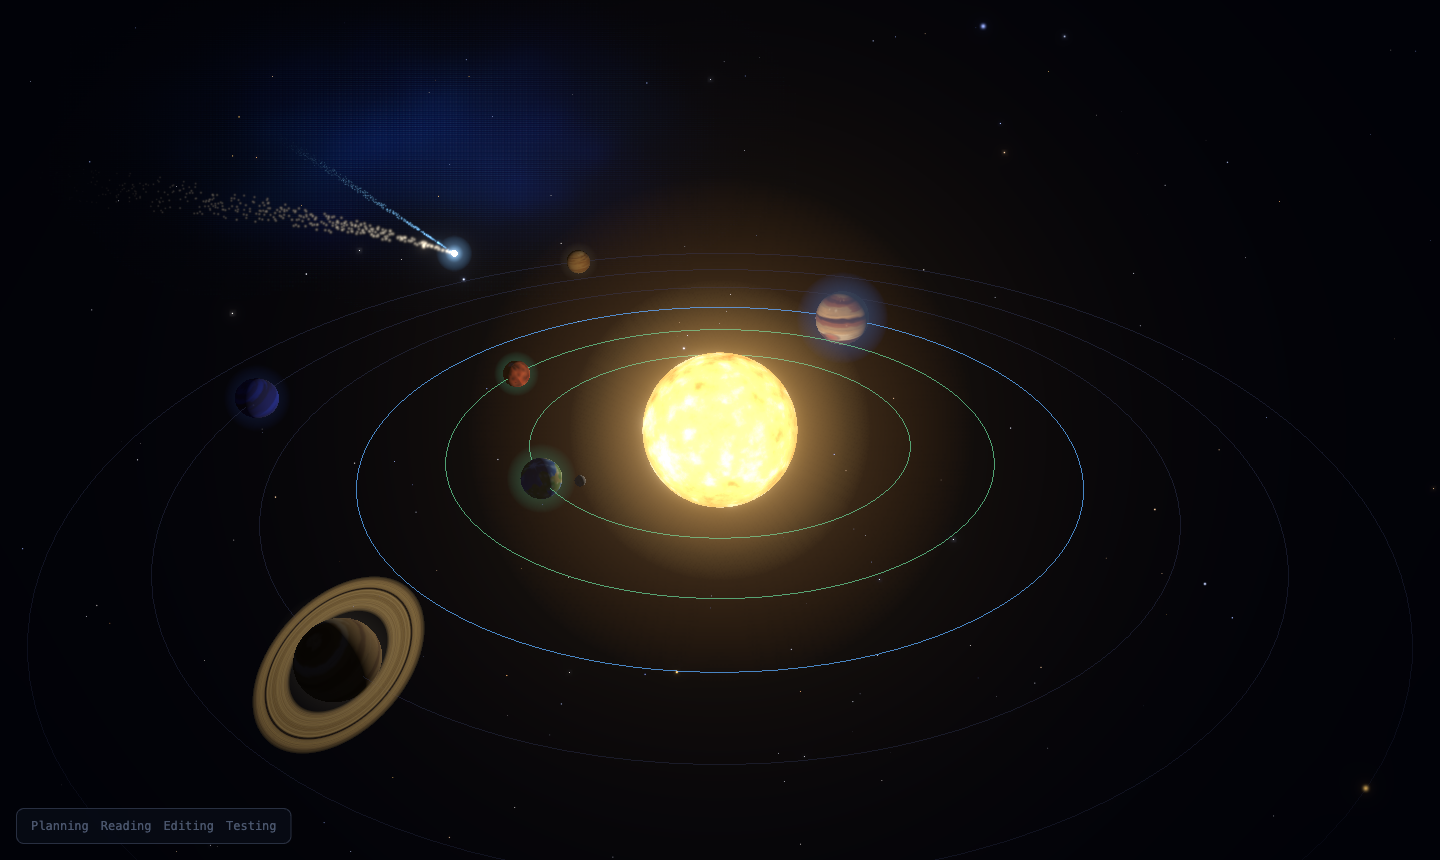
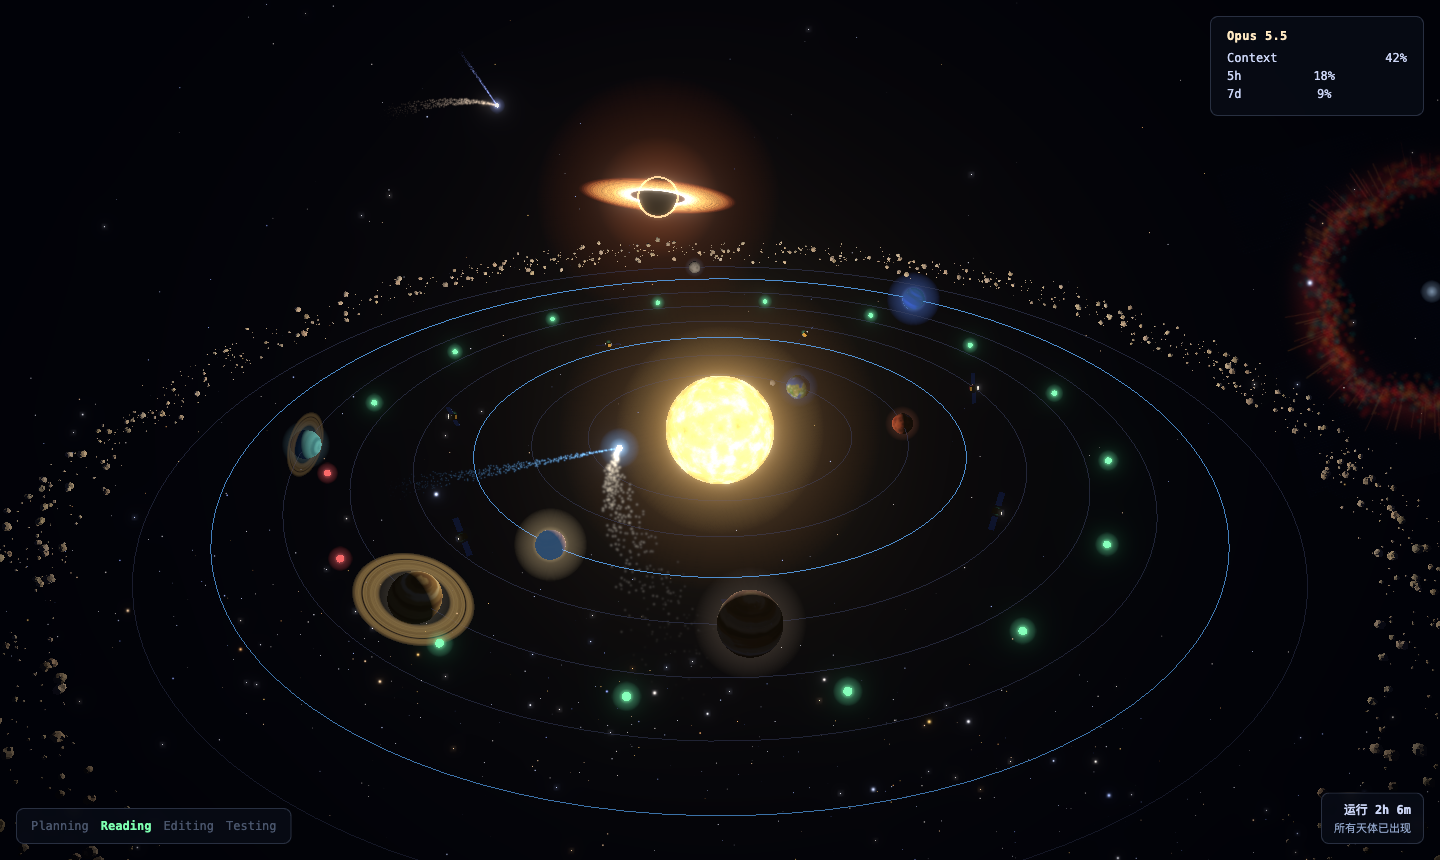
feat: swap the meteor shower for a calm open star cluster, refresh screenshots
The 5-minute meteor shower streaked bright trails across the screen,
which was hard on the eyes. It's replaced by a Pleiades-like open
cluster in a faint reflection nebula that only breathes slowly, placed
between the pulsar and the black hole.

The README screenshots now show a two-hour session with every planet
and wonder unlocked, and the wonders section gets its own image.

diff --git a/web/src/scene/wonders/StarCluster.jsx b/web/src/scene/wonders/StarCluster.jsx
@@ -1,0 +1,97 @@
+import { useMemo, useRef } from 'react';
+import { useFrame } from '@react-three/fiber';
+import * as THREE from 'three';
+import { createGlowPointsMaterial } from '../glowPoints.js';
+import { glowTexture, nebulaTexture } from '../textures.js';
+
+const FAINT_STARS = 140;
+const RADIUS = 5;
+
+// The handful of bright members that give the cluster its shape, like the
+// Pleiades' Seven Sisters: [x, y, z, size].
+const BRIGHT = [
+  [0, 0.4, 0, 2.4],
+  [-1.8, 1.1, 0.6, 1.9],
+  [1.5, 1.6, -0.4, 2.0],
+  [2.6, -0.3, 0.8, 1.7],
+  [-0.9, -1.4, -0.7, 1.8],
+  [0.8, -0.9, 1.4, 1.5],
+  [-2.9, -0.2, -1.1, 1.6],
+];
+
+// Roughly Gaussian scatter so members crowd toward the middle.
+function gaussian() {
+  return (Math.random() + Math.random() + Math.random() - 1.5) / 1.5;
+}
+
+// A young open cluster of hot blue-white stars in a faint blue reflection
+// nebula. Deliberately calm: no flicker, only a slow breathing glow.
+export default function StarCluster() {
+  const ref = useRef(null);
+  const glowRefs = useRef([]);
+  const hazeRef = useRef(null);
+  const material = useMemo(() => createGlowPointsMaterial({ twinkle: 0.05 }), []);
+  const glow = useMemo(() => glowTexture(), []);
+  const haze = useMemo(() => nebulaTexture(307, ['#35508f', '#5673b0', '#2a3f73']), []);
+
+  const geometry = useMemo(() => {
+    const count = FAINT_STARS + BRIGHT.length;
+    const positions = new Float32Array(count * 3);
+    const colors = new Float32Array(count * 3);
+    const sizes = new Float32Array(count);
+    const alphas = new Float32Array(count);
+    const phases = new Float32Array(count);
+    const hot = new THREE.Color('#bcd2ff');
+    const white = new THREE.Color('#f4f6ff');
+    const c = new THREE.Color();
+    for (let i = 0; i < FAINT_STARS; i += 1) {
+      positions.set([gaussian() * RADIUS, gaussian() * RADIUS * 0.7, gaussian() * RADIUS], i * 3);
+      c.copy(hot).lerp(white, Math.random());
+      colors.set([c.r, c.g, c.b], i * 3);
+      sizes[i] = 0.3 + Math.random() * 0.45;
+      alphas[i] = 0.35 + Math.random() * 0.4;
+      phases[i] = Math.random();
+    }
+    BRIGHT.forEach(([x, y, z, size], j) => {
+      const i = FAINT_STARS + j;
+      positions.set([x, y, z], i * 3);
+      colors.set([white.r, white.g, white.b], i * 3);
+      sizes[i] = size * 1.3;
+      alphas[i] = 1;
+      phases[i] = Math.random();
+    });
+    const g = new THREE.BufferGeometry();
+    g.setAttribute('position', new THREE.BufferAttribute(positions, 3));
+    g.setAttribute('color', new THREE.BufferAttribute(colors, 3));
+    g.setAttribute('size', new THREE.BufferAttribute(sizes, 1));
+    g.setAttribute('alpha', new THREE.BufferAttribute(alphas, 1));
+    g.setAttribute('phase', new THREE.BufferAttribute(phases, 1));
+    return g;
+  }, []);
+
+  useFrame((state) => {
+    const t = state.clock.elapsedTime;
+    material.uniforms.uTime.value = t;
+    if (ref.current) ref.current.rotation.y = t * 0.01;
+    glowRefs.current.forEach((sprite, i) => {
+      if (sprite) sprite.material.opacity = 0.35 + Math.sin(t * 0.4 + i * 0.9) * 0.06;
+    });
+    if (hazeRef.current) hazeRef.current.material.opacity = 0.3 + Math.sin(t * 0.25) * 0.05;
+  });
+
+  return (
+    <group>
+      <sprite ref={hazeRef} scale={[22, 17, 1]}>
+        <spriteMaterial map={haze} transparent opacity={0.3} depthWrite={false} blending={THREE.AdditiveBlending} />
+      </sprite>
+      <group ref={ref}>
+        <points geometry={geometry} material={material} />
+        {BRIGHT.map(([x, y, z, size], i) => (
+          <sprite key={i} ref={(el) => (glowRefs.current[i] = el)} position={[x, y, z]} scale={size * 0.9}>
+            <spriteMaterial map={glow} color="#a8c4ff" transparent opacity={0.35} depthWrite={false} blending={THREE.AdditiveBlending} toneMapped={false} />
+          </sprite>
+        ))}
+      </group>
+    </group>
+  );
+}

diff --git a/web/src/scene/wonders/Wonders.jsx b/web/src/scene/wonders/Wonders.jsx
@@ -1,5 +1,5 @@
 import Appear from './Appear.jsx';
-import ShootingStars from './ShootingStars.jsx';
+import StarCluster from './StarCluster.jsx';
 import AsteroidBelt from './AsteroidBelt.jsx';
 import GasGiant from './GasGiant.jsx';
 import Galaxy from './Galaxy.jsx';
@@ -17,7 +17,7 @@ function around(azimuthDeg, radius) {
 }
 
 const PLACEMENT = {
-  meteors: { Component: ShootingStars, appear: false },
+  cluster: { Component: StarCluster, position: around(105, 48) },
   asteroids: { Component: AsteroidBelt },
   giant: { Component: GasGiant },
   galaxy: { Component: Galaxy, position: around(-35, 80) },

diff --git a/web/src/state/milestones.js b/web/src/state/milestones.js
@@ -1,7 +1,7 @@
 // Scenery unlocked by how long Claude has been actively working this session.
 // Once unlocked a body stays for the rest of the session.
 export const MILESTONES = [
-  { id: 'meteors', minutes: 5, label: '流星雨' },
+  { id: 'cluster', minutes: 5, label: '疏散星团' },
   { id: 'asteroids', minutes: 10, label: '小行星带' },
   { id: 'giant', minutes: 20, label: '远方巨行星' },
   { id: 'galaxy', minutes: 40, label: '旋涡星系' },

diff --git a/README.md b/README.md
@@ -23,7 +23,7 @@ The longer it works, the more of the universe opens up: from Earth to a black ho
 
 ---
 
-![Orbit dashboard mid-mission: the central star with planets in orbit, the Status HUD top-right, and the step list showing "Editing"](docs/images/orbit-dashboard.png)
+![Orbit two hours into a session: all eight planets lit, a black hole and a supernova remnant beyond the asteroid belt, a comet swinging past the sun, and the green/red test ring](docs/images/orbit-dashboard.png)
 
 Orbit wraps the `claude` CLI and turns the session into a real-time 3D
 deep-space dashboard in your browser. You can tell at a glance what Claude is
@@ -111,9 +111,11 @@ When a new wonder unlocks, a toast announces it. Distant wonders are spread
 around the sky, so the slowly turning camera brings them into view one at a
 time.
 
+![A pulsar sweeping its beams, the distant gas giant with its moons, and the edge of the spiral galaxy](docs/images/orbit-wonders.png)
+
 | Working time | Wonder | What appears |
 |---:|---|---|
-| 5 min | ☄ **Meteor shower** · 流星雨 | Meteors streak across whatever part of the sky you're facing |
+| 5 min | ✨ **Open star cluster** · 疏散星团 | A young cluster of blue-white stars in a faint reflection nebula, like the Pleiades |
 | 10 min | 🪨 **Asteroid belt** · 小行星带 | A ring of lumpy, tumbling rocks |
 | 20 min | 🟠 **Distant gas giant** · 远方巨行星 | A far-out Jupiter-class world with four Galilean moons |
 | 40 min | 🌀 **Spiral galaxy** · 旋涡星系 | Two-armed spiral, warm core, blue star-forming arms |
